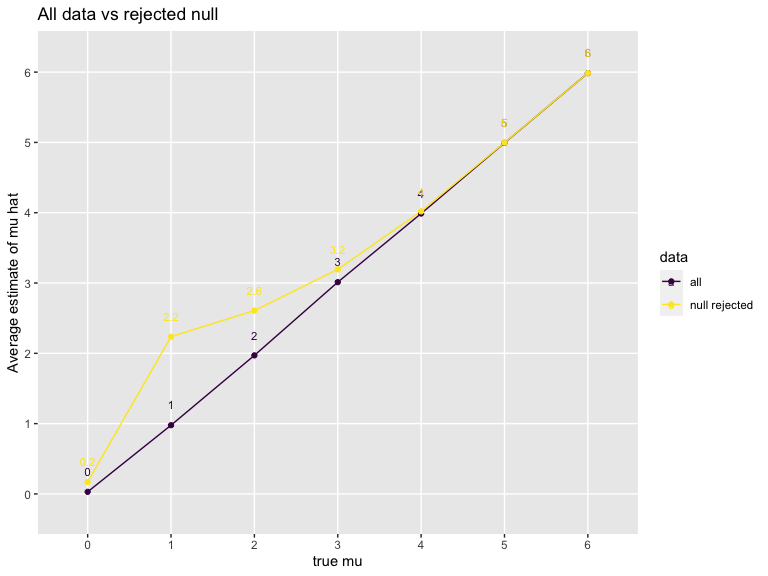
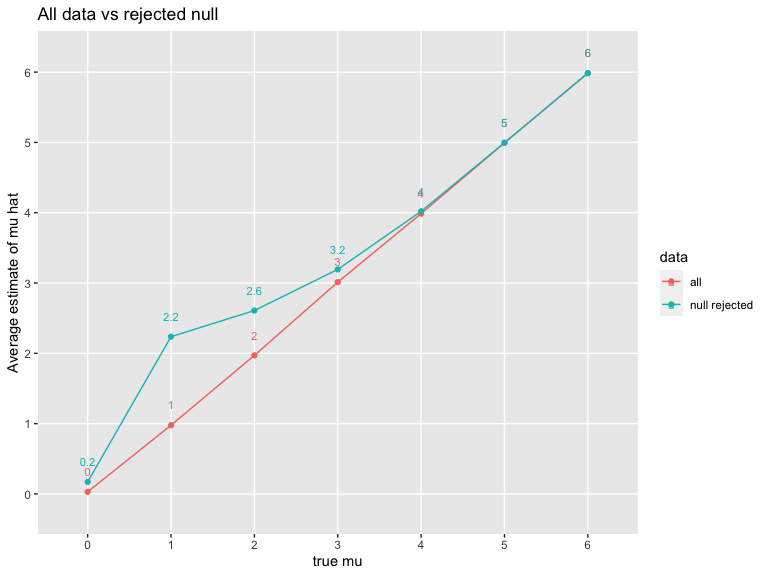
Final touch ups

diff --git a/p8105_hw5_rl3411.md b/p8105_hw5_rl3411.md
@@ -5,21 +5,8 @@ rl3411
 
 ``` r
 library(tidyverse)
-```
-
-    ## ── Attaching core tidyverse packages ──────────────────────── tidyverse 2.0.0 ──
-    ## ✔ dplyr     1.1.3          ✔ readr     2.1.4     
-    ## ✔ forcats   1.0.0          ✔ stringr   1.5.0     
-    ## ✔ ggplot2   3.4.3          ✔ tibble    3.2.1.9006
-    ## ✔ lubridate 1.9.2          ✔ tidyr     1.3.0     
-    ## ✔ purrr     1.0.2          
-    ## ── Conflicts ────────────────────────────────────────── tidyverse_conflicts() ──
-    ## ✖ dplyr::filter() masks stats::filter()
-    ## ✖ dplyr::lag()    masks stats::lag()
-    ## ℹ Use the conflicted package (<http://conflicted.r-lib.org/>) to force all conflicts to become errors
-
-``` r
 library(purrr)
+library(viridis)
 
 knitr::opts_chunk$set(
     echo = TRUE,
@@ -28,14 +15,6 @@ knitr::opts_chunk$set(
   fig.height = 6,
   out.width = "100%"
 )
-
-options(
-  ggplot2.continuous.colour = "viridis",
-  ggplot2.continuous.fill = "viridis"
-)
-
-scale_colour_discrete = scale_colour_viridis_d
-scale_fill_discrete = scale_fill_viridis_d
 ```
 
 # Problem 1
@@ -44,15 +23,6 @@ scale_fill_discrete = scale_fill_viridis_d
 hom_data = read_csv("data/homicide-data.csv") |> 
   mutate(city_state = paste(city, state, sep =", ")) 
 ```
-
-    ## Rows: 52179 Columns: 12
-    ## ── Column specification ────────────────────────────────────────────────────────
-    ## Delimiter: ","
-    ## chr (9): uid, victim_last, victim_first, victim_race, victim_age, victim_sex...
-    ## dbl (3): reported_date, lat, lon
-    ## 
-    ## ℹ Use `spec()` to retrieve the full column specification for this data.
-    ## ℹ Specify the column types or set `show_col_types = FALSE` to quiet this message.
 
 This dataset contains 52,179 criminal homicides from 2007 to 2017 in 50
 American cities. It includes the date, location of the killing
@@ -90,62 +60,17 @@ result = disp_df |>
   unnest(test_result) |> 
   select(city_state, estimate, conf.low, conf.high) 
 
-knitr::kable(result)
+knitr::kable(head(result))
 ```
 
-| city_state         |  estimate |  conf.low | conf.high |
-|:-------------------|----------:|----------:|----------:|
-| Albuquerque, NM    | 0.3862434 | 0.3372604 | 0.4375766 |
-| Atlanta, GA        | 0.3833505 | 0.3528119 | 0.4148219 |
-| Baltimore, MD      | 0.6455607 | 0.6275625 | 0.6631599 |
-| Baton Rouge, LA    | 0.4622642 | 0.4141987 | 0.5110240 |
-| Birmingham, AL     | 0.4337500 | 0.3991889 | 0.4689557 |
-| Boston, MA         | 0.5048860 | 0.4646219 | 0.5450881 |
-| Buffalo, NY        | 0.6122841 | 0.5687990 | 0.6540879 |
-| Charlotte, NC      | 0.2998544 | 0.2660820 | 0.3358999 |
-| Chicago, IL        | 0.7358627 | 0.7239959 | 0.7473998 |
-| Cincinnati, OH     | 0.4452450 | 0.4079606 | 0.4831439 |
-| Columbus, OH       | 0.5304428 | 0.5002167 | 0.5604506 |
-| Dallas, TX         | 0.4811742 | 0.4561942 | 0.5062475 |
-| Denver, CO         | 0.5416667 | 0.4846098 | 0.5976807 |
-| Detroit, MI        | 0.5883287 | 0.5687903 | 0.6075953 |
-| Durham, NC         | 0.3659420 | 0.3095874 | 0.4260936 |
-| Fort Worth, TX     | 0.4644809 | 0.4222542 | 0.5072119 |
-| Fresno, CA         | 0.3470226 | 0.3051013 | 0.3913963 |
-| Houston, TX        | 0.5074779 | 0.4892447 | 0.5256914 |
-| Indianapolis, IN   | 0.4493192 | 0.4223156 | 0.4766207 |
-| Jacksonville, FL   | 0.5111301 | 0.4820460 | 0.5401402 |
-| Kansas City, MO    | 0.4084034 | 0.3803996 | 0.4370054 |
-| Las Vegas, NV      | 0.4141926 | 0.3881284 | 0.4407395 |
-| Long Beach, CA     | 0.4126984 | 0.3629026 | 0.4642973 |
-| Los Angeles, CA    | 0.4900310 | 0.4692208 | 0.5108754 |
-| Louisville, KY     | 0.4531250 | 0.4120609 | 0.4948235 |
-| Memphis, TN        | 0.3190225 | 0.2957047 | 0.3432691 |
-| Miami, FL          | 0.6048387 | 0.5685783 | 0.6400015 |
-| Milwaukee, wI      | 0.3614350 | 0.3333172 | 0.3905194 |
-| Minneapolis, MN    | 0.5109290 | 0.4585150 | 0.5631099 |
-| Nashville, TN      | 0.3624511 | 0.3285592 | 0.3977401 |
-| New Orleans, LA    | 0.6485356 | 0.6231048 | 0.6731615 |
-| New York, NY       | 0.3875598 | 0.3494421 | 0.4270755 |
-| Oakland, CA        | 0.5364308 | 0.5040588 | 0.5685037 |
-| Oklahoma City, OK  | 0.4851190 | 0.4467861 | 0.5236245 |
-| Omaha, NE          | 0.4132029 | 0.3653146 | 0.4627477 |
-| Philadelphia, PA   | 0.4478103 | 0.4300380 | 0.4657157 |
-| Phoenix, AZ        | 0.5514223 | 0.5184825 | 0.5839244 |
-| Pittsburgh, PA     | 0.5340729 | 0.4942706 | 0.5734545 |
-| Richmond, VA       | 0.2634033 | 0.2228571 | 0.3082658 |
-| Sacramento, CA     | 0.3696809 | 0.3211559 | 0.4209131 |
-| San Antonio, TX    | 0.4285714 | 0.3947772 | 0.4630331 |
-| San Bernardino, CA | 0.6181818 | 0.5576628 | 0.6753422 |
-| San Diego, CA      | 0.3796095 | 0.3354259 | 0.4258315 |
-| San Francisco, CA  | 0.5067873 | 0.4680516 | 0.5454433 |
-| Savannah, GA       | 0.4674797 | 0.4041252 | 0.5318665 |
-| St. Louis, MO      | 0.5396541 | 0.5154369 | 0.5636879 |
-| Stockton, CA       | 0.5990991 | 0.5517145 | 0.6447418 |
-| Tampa, FL          | 0.4567308 | 0.3881009 | 0.5269851 |
-| Tulsa, AL          | 0.0000000 | 0.0000000 | 0.9453792 |
-| Tulsa, OK          | 0.3310463 | 0.2932349 | 0.3711192 |
-| Washington, DC     | 0.4379182 | 0.4112495 | 0.4649455 |
+| city_state      |  estimate |  conf.low | conf.high |
+|:----------------|----------:|----------:|----------:|
+| Albuquerque, NM | 0.3862434 | 0.3372604 | 0.4375766 |
+| Atlanta, GA     | 0.3833505 | 0.3528119 | 0.4148219 |
+| Baltimore, MD   | 0.6455607 | 0.6275625 | 0.6631599 |
+| Baton Rouge, LA | 0.4622642 | 0.4141987 | 0.5110240 |
+| Birmingham, AL  | 0.4337500 | 0.3991889 | 0.4689557 |
+| Boston, MA      | 0.5048860 | 0.4646219 | 0.5450881 |
 
 ``` r
 result |>  
@@ -192,7 +117,8 @@ study |>
   ggplot(aes(x = week, y = obs, group = arm_ID, color = arm_ID)) + 
   geom_line() +
   geom_smooth(aes(group = arm, color = factor(arm)), se = F) +
-  labs(title = "Observations on each subject over 8 weeks")
+  labs(title = "Observations on each subject over 8 weeks") +
+  scale_color_viridis(discrete = TRUE)
 ```
 
 <img src="p8105_hw5_rl3411_files/figure-gfm/unnamed-chunk-8-1.png" width="100%" />
@@ -205,7 +131,7 @@ values among the experimental group.
 
 # Problem 3
 
-h \### Generating dataset of samples
+### Generating dataset of samples
 
 ``` r
 set.seed(828)
